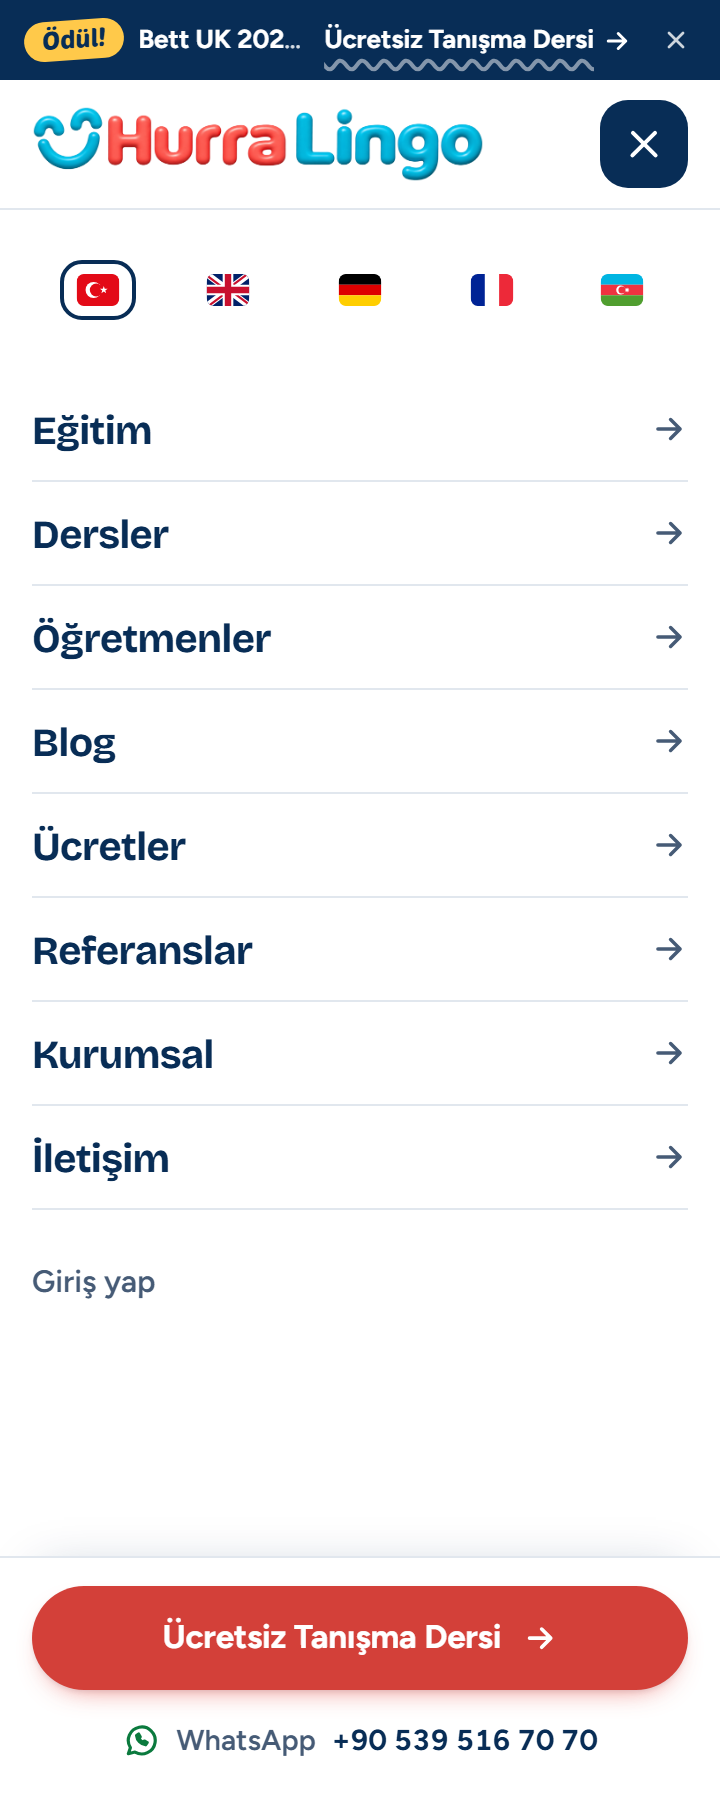
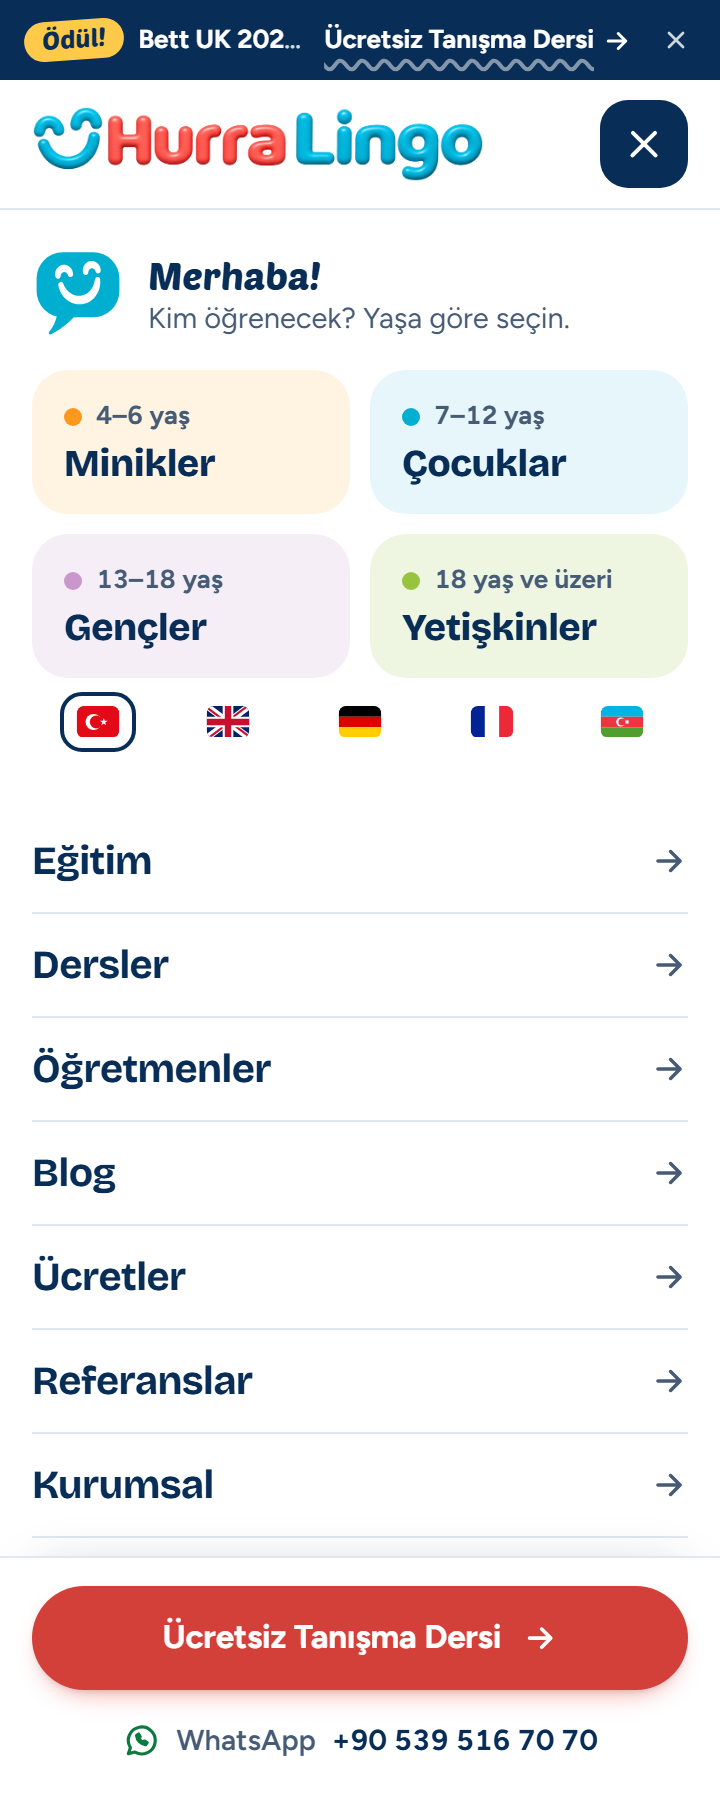
hello kısmı tekrar

diff --git a/assets/site-tr.css b/assets/site-tr.css
@@ -10,7 +10,6 @@
 #drawer .dr-langs a:focus-visible{outline:2px solid var(--cyan);outline-offset:2px}
 #drawer .dr-langs + .dr-list{margin-top:0}
 @media(min-width:721px){#drawer .dr-ages + .dr-langs{margin-top:16px}}
-@media(max-width:720px){#drawer .dr-hello,#drawer .dr-ages{display:none}}
 /* Restore the original centered header, logo sizing and announcement styling. */
 .site-tr .header .bar{max-width:var(--wrap);margin-inline:auto}
 .site-tr #ogretmenler .t-empty[hidden]{display:none!important}
